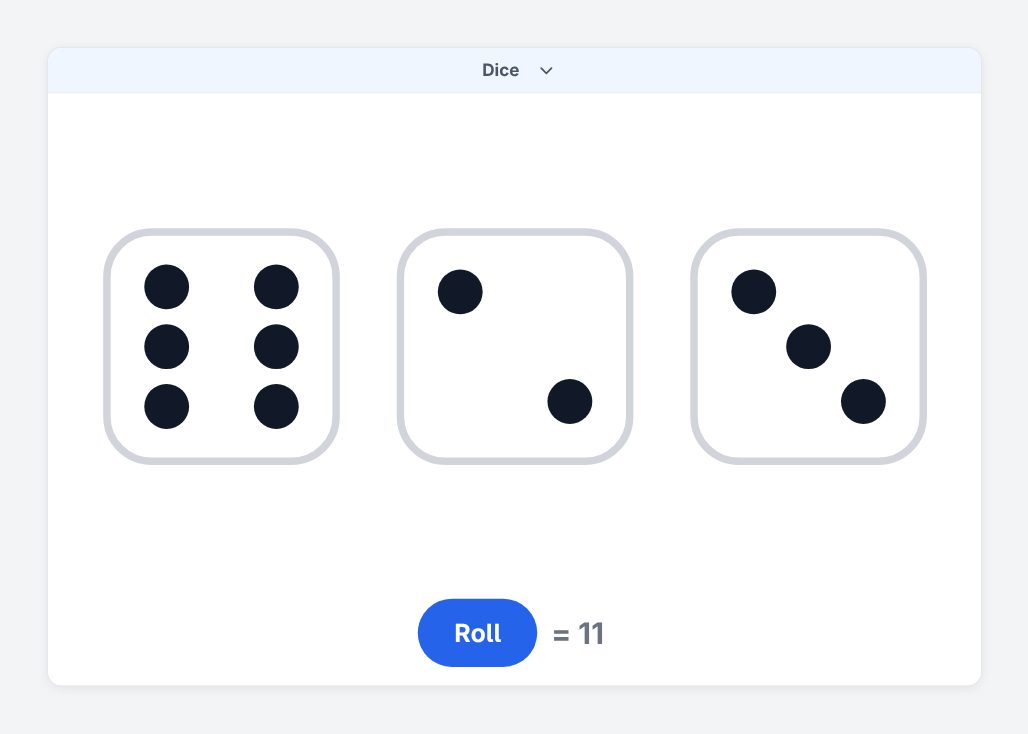
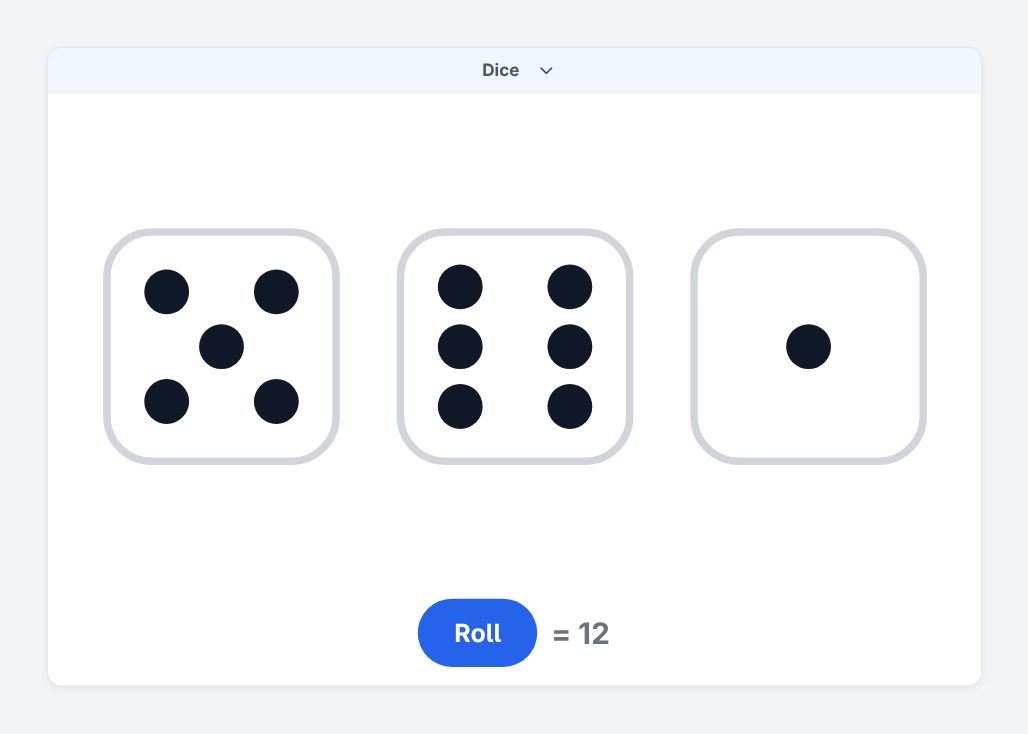
Inter: an uploaded widget starts without waiting for a slow font, and the Dice shot matches its words
An uploaded widget file waits at most 1.5 s for the board's font, then starts in the
device's font. Before, a font request that never answered kept its window spinning.
The Developer mode suite now also opens a tab where the font never answers.

The Teacher Guide's Dice shot rolls 5, 6, and 1 every time, as its alt text says.

Claude-Session: https://claude.ai/code/session_016h6FE85E2dZRo6pt3hG8SE

diff --git a/docs/teacher-guide/work/scenes.js b/docs/teacher-guide/work/scenes.js
@@ -69,16 +69,19 @@ async function ftCard(p, ik, which, search, label) {
   await f.locator('.aac-tile-btn', { hasText: label }).first().click();
   await wait(p, 500);
 }
-// Rolls until the dice don't all match (a first roll of all 1s looks like dice that never rolled).
-async function rollDice(p, ik, n = 3) {
+// Rolls until the dice don't all match (a first roll of all 1s looks like dice that never rolled). With `want`, one
+// roll that lands on those values, so the shot keeps matching its alt text.
+async function rollDice(p, ik, n = 3, want) {
   if (n !== 1) { await p.click(`.win[data-ikey="${ik}"] .win-label`); await p.click(`#menu [data-id="count:${n}"]`); await wait(p, 400); }   // (Number of dice: a row of choices)
   for (let i = 0; i < 6; i++) {
+    // (The roll draws one Math.random per die first: those give the values. The rest are its tumble.)
+    if (want) await frame(p, ik).locator('html').evaluate((html, want) => { const q = want.map(v => (v - 0.5) / 6), r = Math.random; Math.random = () => q.length ? q.shift() : r(); }, want);
     await frame(p, ik).locator('#roll').click();
     await wait(p, 2500);
     const said = await frame(p, ik).locator('#said').textContent();
     const vals = (/Rolled ([\d, ]+)/.exec(said) || [, ''])[1].split(',').map(v => +v.trim()).filter(Boolean);
     log('  dice', said);
-    if (new Set(vals).size === vals.length) break;
+    if (want ? vals.join() === want.join() : new Set(vals).size === vals.length) break;
   }
 }
 // Zones Check-In: counts typed in its Counts view (Zones Check-In ⌄ › Edit…), then Done.
@@ -198,7 +201,7 @@ const W = {
     await frame(p, ik).locator('html').evaluate(() => { crypto.getRandomValues = a => { a[0] = 4; return a; }; }); await pickName(p, ik); } },
   'first-then-board': { r: { w: 1080, h: 760 }, set: async (p, ik) => { await ftCard(p, ik, 'first', 'math', 'Math'); await ftCard(p, ik, 'then', 'play', 'Playground'); } },
   'zones-check-in': { r: { w: 560, h: 460 }, set: (p, ik) => zonesCounts(p, ik, { blue: 2, green: 9, yellow: 4, red: 1 }) },   // (the size it opens at)
-  dice: { r: { w: 820, h: 560 }, set: (p, ik) => rollDice(p, ik, 3) },
+  dice: { r: { w: 820, h: 560 }, set: (p, ik) => rollDice(p, ik, 3, [5, 6, 1]) },   // (the alt text says 5, 6, and 1)
   'youtube-player': { r: { w: 960, h: 580 } },
   image: { r: { w: 1080, h: 760 }, set: async (p, ik) => { await openPicture(p, ik, path.join(HERE, 'water-cycle.svg')); await setRect(p, ik, { x: 660, y: 245, w: 1080, h: 760 }); await wait(p, 800); } },
   calculator: { r: { w: 900, h: 640 }, at: { x: 200, y: 120 }, set: async (p, ik) => { await choose(p, ik, 'History', { exact: true }); await calcType(p, ik, ['Digit2', 'Digit5', 'Shift+Equal', 'Digit1', 'Digit7', 'Enter']); await calcType(p, ik, ['Digit1', 'Digit2', 'Shift+Digit8', 'Digit4', 'Enter']); } },

diff --git a/tests/suites/sdk.js b/tests/suites/sdk.js
@@ -1173,17 +1173,17 @@ module.exports = T => {
     ok(await eventually(async () => { const x = await interIn(); return /^"?Inter"?,/.test(x.font) && x.faces.includes('loaded'); }),
       `an uploaded widget’s text is in Inter, and its sealed frame has Inter loaded (${JSON.stringify(await interIn())})`);
     await B(ik => window.__board21.deleteInstance(ik), fk);
-    {
-      // With the font answered 404, an uploaded widget still starts, in the device's font.
+    // With the font answered 404, or never answered, an uploaded widget still starts, in the device's font.
+    for (const [how, answer] of [['answered 404', r => r.fulfill({ status: 404, body: 'Not found' })], ['never answered', () => new Promise(() => {})]]) {
       const c404 = await browser.newContext({ viewport: { width: 1400, height: 860 }, serviceWorkers: 'block' });
-      await c404.route(/\/fonts\/Inter-21Board\.woff2$/, r => r.fulfill({ status: 404, body: 'Not found' }));
-      const p4 = await c404.newPage(); p4.on('pageerror', e => { if (!/Service worker is disabled/.test(e.message)) errors.push('404 tab: ' + e.message); });   // (no offline worker in this tab)
-      await p4.goto(BASE); await boardUp(p4, { fonts: false });
+      await c404.route(/\/fonts\/Inter-21Board\.woff2$/, answer);
+      const p4 = await c404.newPage(); p4.on('pageerror', e => { if (!/Service worker is disabled/.test(e.message)) errors.push(how + ' tab: ' + e.message); });   // (no offline worker in this tab)
+      await p4.goto(BASE, { waitUntil: 'domcontentloaded' }); await boardUp(p4, { fonts: false });   // (a font never answered holds up the page's load event)
       await openSettings(p4, ['advanced']); await p4.click('#settings [data-act="devmode"]'); await p4.keyboard.press('Escape');
       await p4.setInputFiles('#widget-input', noSdk);
-      const started = await eventually(async () => await frame(p4, 'dev-no-sdk-tag:1').locator('#s').textContent() === 'connected');
+      const started = await eventually(async () => await frame(p4, 'dev-no-sdk-tag:1').locator('#s').textContent() === 'connected', 4000);
       const faces = started ? await frame(p4, 'dev-no-sdk-tag:1').locator('html').evaluate(() => Array.from(document.fonts).filter(f => f.family.replace(/"/g, '') === 'Inter').length) : -1;
-      ok(started && faces === 0, `with the font file answered 404, an uploaded widget still starts, with no Inter face (${started ? faces + ' faces' : 'it didn’t start'})`);
+      ok(started && faces === 0, `with the font file ${how}, an uploaded widget still starts within 4 s, with no Inter face (${started ? faces + ' faces' : 'it didn’t start'})`);
       await c404.close();
     }
     // ---- A file with no SDK tag still connects.

diff --git a/board.js b/board.js
@@ -32,7 +32,7 @@
   // sw.js) and the build, one fingerprint for every file of the release. The page carries the build as well
   // (<html data-build>), and so does the offline copy (sw.js): section 15 keeps them from being mixed.
   const BOARD_VERSION = '2026.11.28-2';
-  const BOARD_BUILD = '53bb0aa4';
+  const BOARD_BUILD = 'a14f9f4a';
   const RELEASE = `${BOARD_VERSION} (${BOARD_BUILD})`;   // what Settings → About shows, to read out to IT
   const pageBuild = () => LAB ? BOARD_BUILD : document.documentElement.dataset.build || '';   // (the dev window's page has none)
   const SDK_PROTOCOL = 1;
@@ -490,8 +490,9 @@
       let sdk;
       try { sdk = await this.sdk(); } catch (err) { return this.note('This widget can’t start', 'Couldn’t load the widget SDK. Connect to the Internet, then reload.'); }
       const tag = `<script>${sdk.replace(/<\/(script)/gi, '<\\/$1').replace(/<!--/g, '<\\!--')}</script>`;
-      // (Inter once, after the policy, outside the file's own markup: a comment in the file can't swallow it.)
-      const font = await this.font().catch(() => '');
+      // (Inter once, after the policy, outside the file's own markup: a comment in the file can't swallow it. A slow
+      // font doesn't hold up the start: after 1.5 s the widget starts without it, and gets it next time.)
+      const font = await Promise.race([this.font(), new Promise(res => setTimeout(res, 1500, ''))]).catch(() => '');
       const face = font ? `<style>@font-face { font-family: "Inter"; src: url(${font}) format("woff2"); font-weight: 100 900; font-display: swap; }</style>` : '';
       let src = f ? f.src : '', found = false;
       src = src.replace(SDK_TAGS_RE, () => { found = true; return tag; });

diff --git a/sw.js b/sw.js
@@ -14,11 +14,11 @@
 const VERSION = '2026.11.28-2';
 // Written by tools/release.js, never by hand. BUILD: one fingerprint for this file and everything in FILES.
 // FILES: every file of the offline copy, with its own fingerprint.
-const BUILD = '53bb0aa4';
+const BUILD = 'a14f9f4a';
 const FILES = {
-  './': '7c988b812d92bdcb',
-  'index.html': '7c988b812d92bdcb',
-  'board.js': 'e95284017875dcfd',
+  './': 'd39cb85d57cba1d9',
+  'index.html': 'd39cb85d57cba1d9',
+  'board.js': 'ab8649d76a387c2d',
   'sdk/board21.js': '05b38da7174470d4',
   'sdk/board21-dev.js': '8a581bec97559eaf',
   'sdk/dev/board-shell.js': 'b38759afe3f25c75',

diff --git a/index.html b/index.html
@@ -1,6 +1,6 @@
 <!DOCTYPE html>
 <!-- data-build is written by tools/release.js: board.js checks that this page and it are the same build. -->
-<html lang="en" data-build="53bb0aa4">
+<html lang="en" data-build="a14f9f4a">
 <head>
   <meta charset="UTF-8">
   <meta name="viewport" content="width=device-width, initial-scale=1.0, maximum-scale=1.0, user-scalable=no, viewport-fit=cover">
